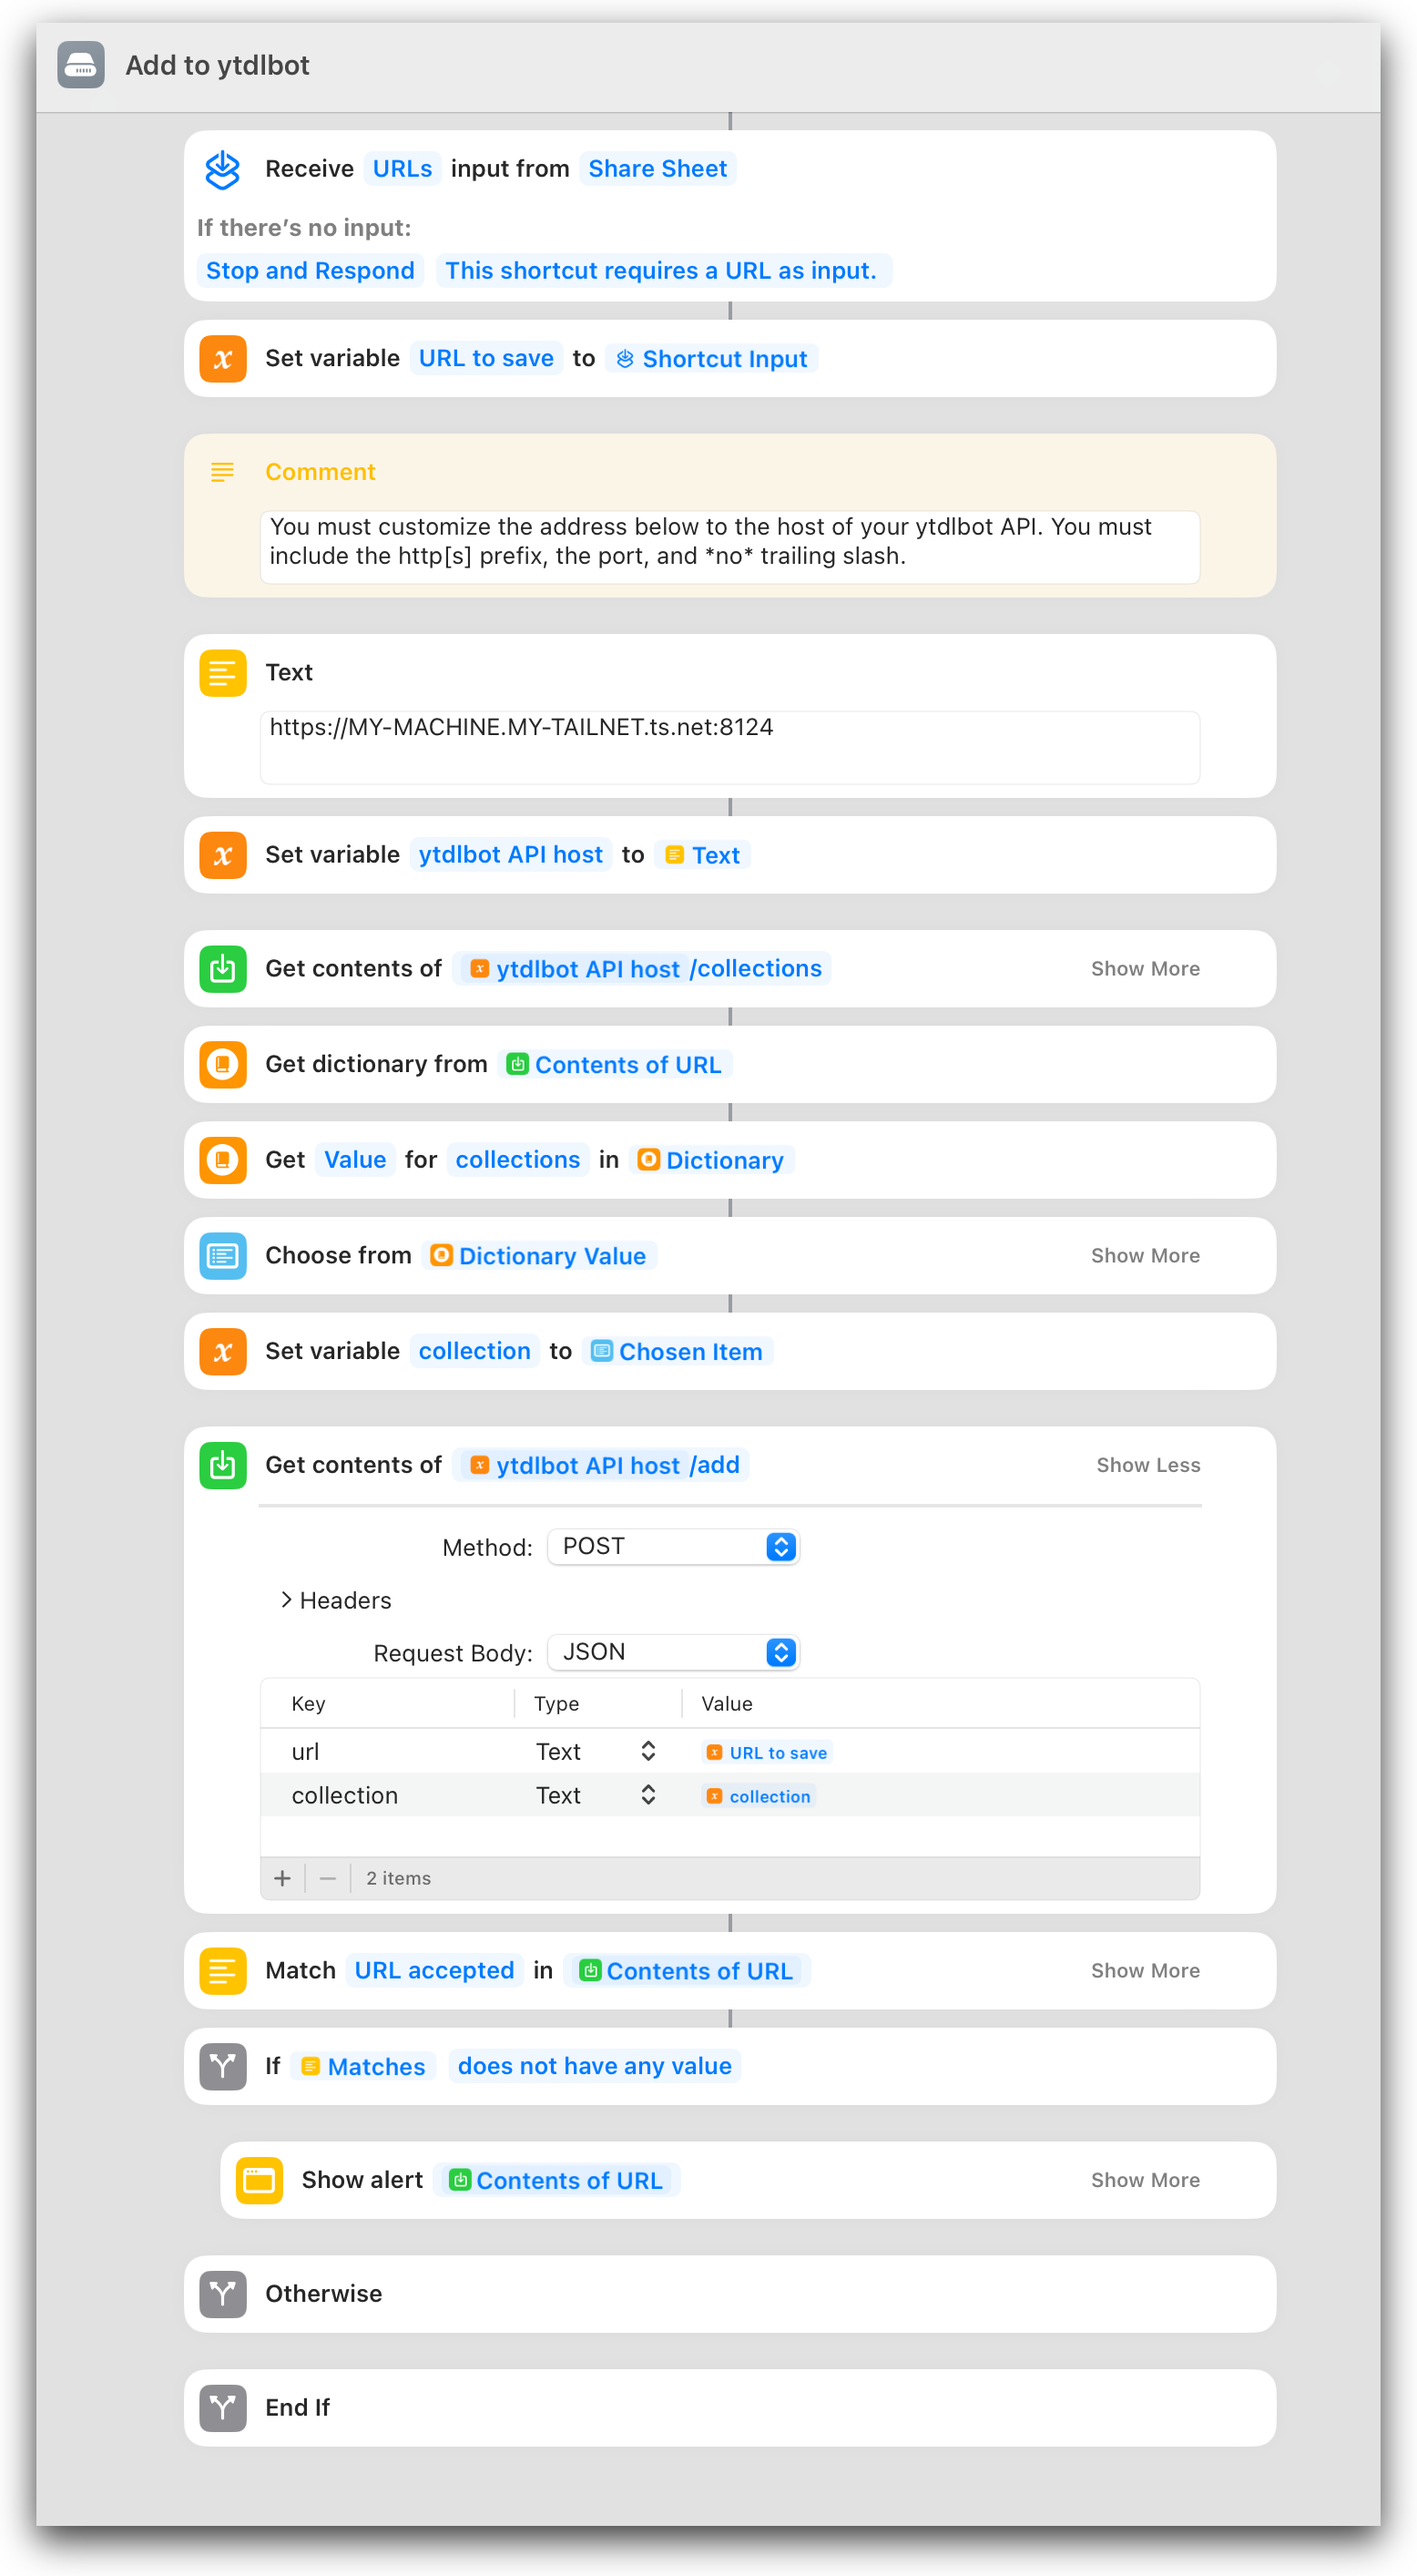
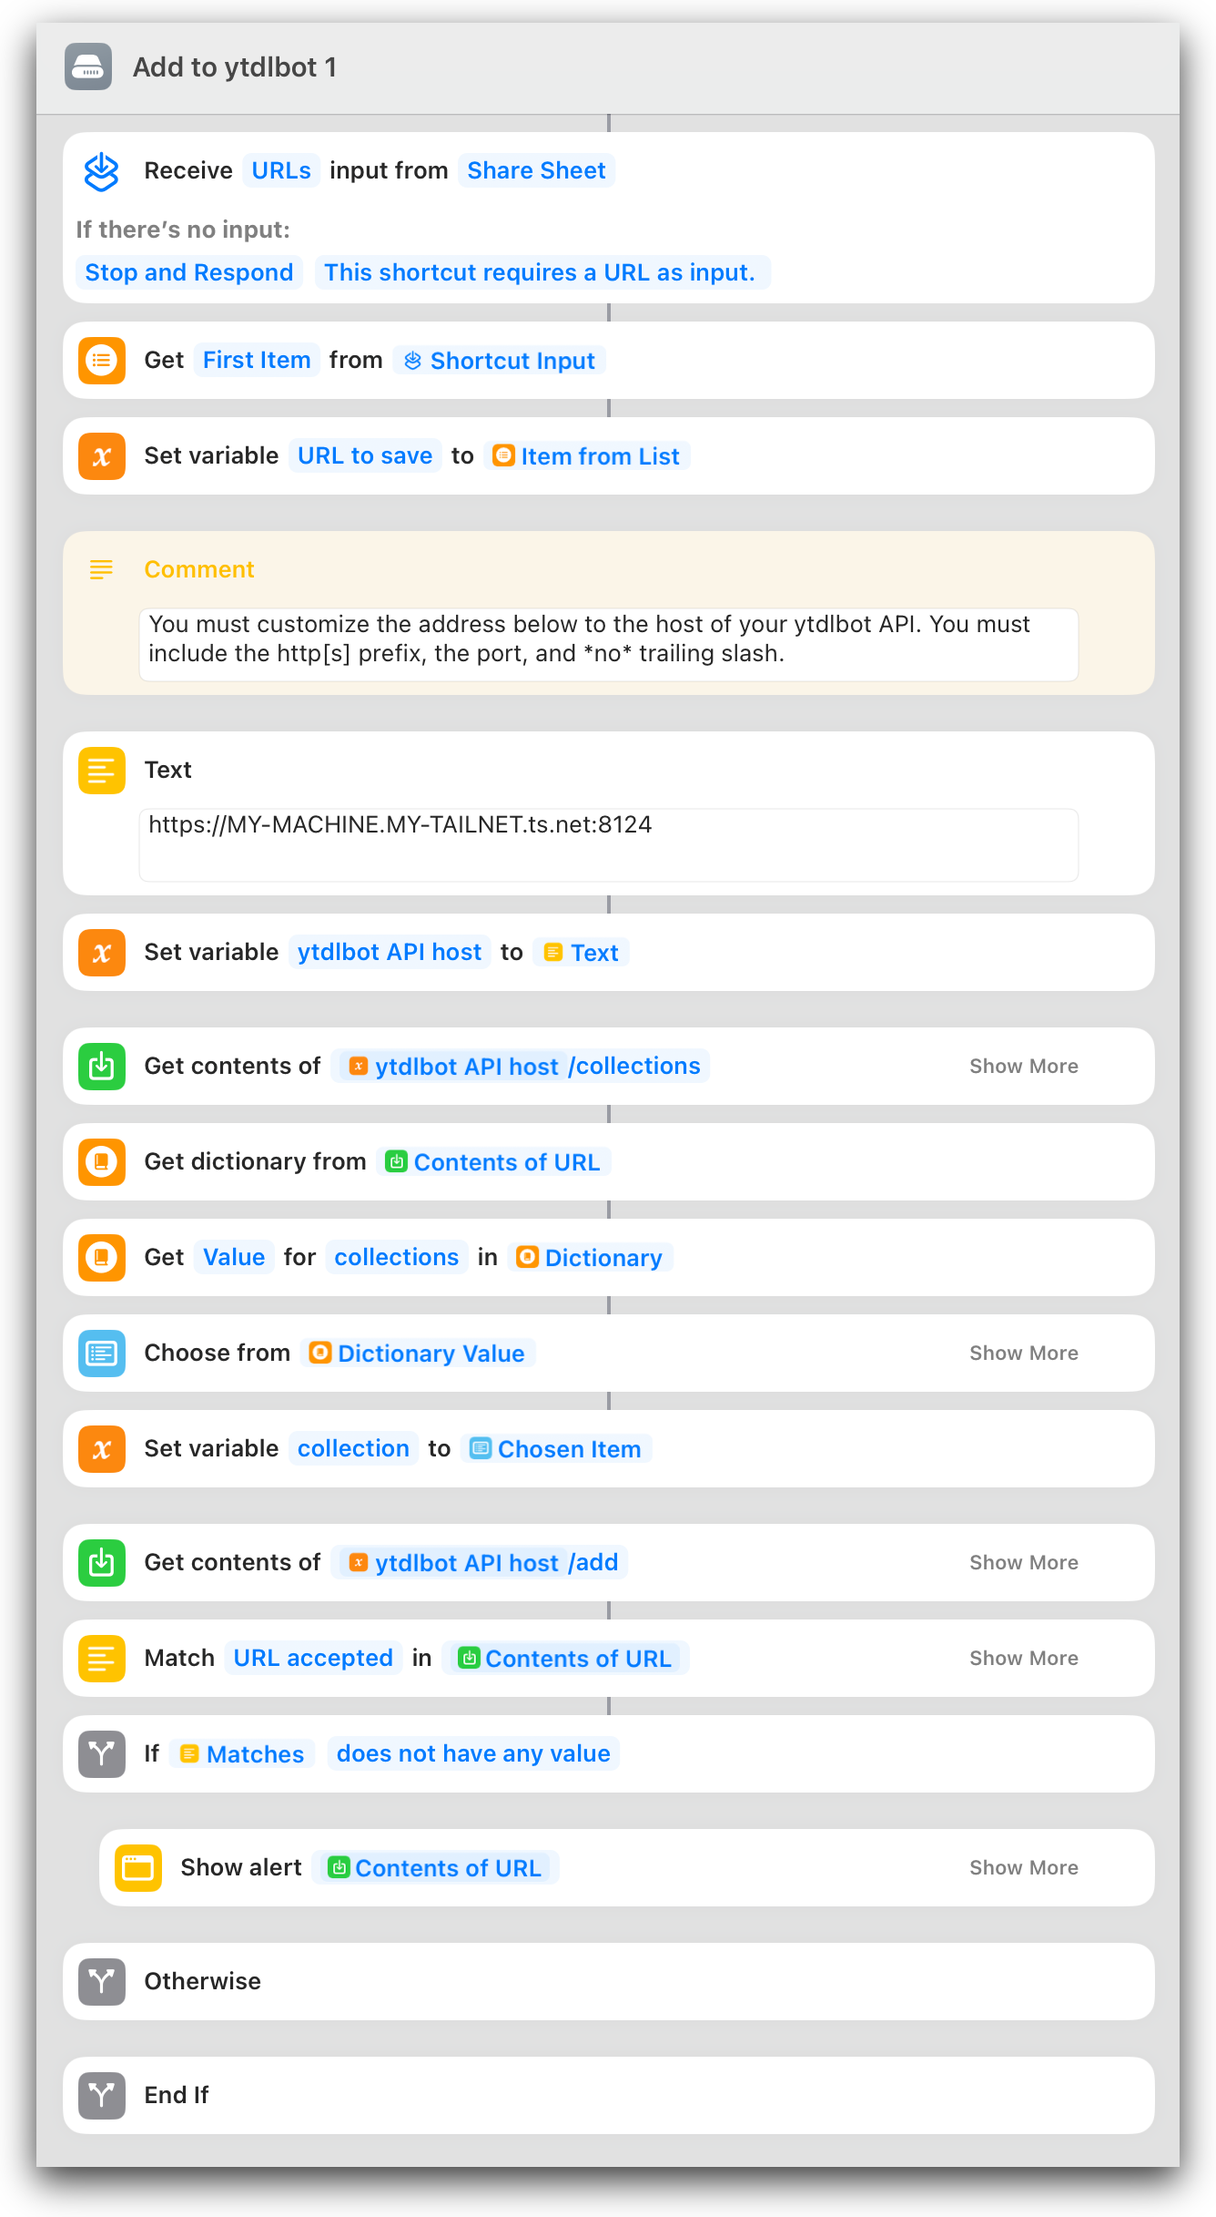
update Apple Shortcut

diff --git a/README.md b/README.md
@@ -144,7 +144,7 @@ ytdlbot intentionally implements the _server_ side of a video collection, allowi
 
 #### Apple Shortcuts
 
-[This Shortcut](https://www.icloud.com/shortcuts/dc1e40561bca4566b881628ea6241443) receives a URL from the system share sheet, asks you which collection to add it to, and saves it. Here's a preview of the Shortcut:
+[This Shortcut](https://www.icloud.com/shortcuts/e721be6647cc480d83c94df894c615a2) receives a URL from the system share sheet, asks you which collection to add it to, and saves it. Here's a preview of the Shortcut:
 
 ![Screenshot of 'Add to ytdlbot' shortcut](readme/shortcut-preview.png)
 
